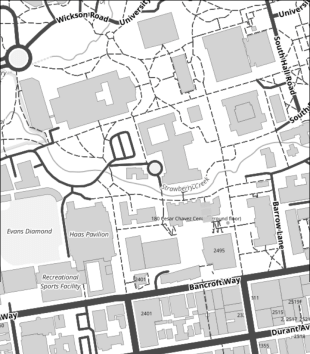
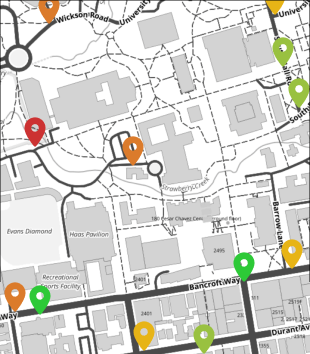
fake data for map and fill color for chart

diff --git a/src/app/home/resources/resources.component.ts b/src/app/home/resources/resources.component.ts
@@ -14,6 +14,7 @@ import {
 import { Observable, fromEvent, Subscriber } from "rxjs";
 import { Util } from '../../services/util/util.service';
 import { AppSettings } from '../../app-settings';
+import * as moment from 'moment';
 
 let FakePOIS = [
   {
@@ -167,6 +168,13 @@ export class ResourcesComponent implements OnInit, OnDestroy {
     })
   }
 
+  private fakeResourceScore() {
+    this.pois.forEach(poi => {
+      poi.resource_score = Math.floor(Math.random() * 5.0);
+      poi.rating_last_updated = 1595402179094;
+    })
+  }
+
   public onInputFocus() {
     ParentContainerState.fullscreen.next(true);
     this.isViewListShow = true;
@@ -197,15 +205,15 @@ export class ResourcesComponent implements OnInit, OnDestroy {
     let params: string[] = [];
 
     // get all at first from ucberkeley is center of map
-    // if (!this.keyword && !this.poiType) {
+    if (!this.keyword && !this.poiType) {
       params.push(`lat=${this.mapCenter.lat}&lng=${this.mapCenter.lng}&radius=1000`);
-    // }
+    }
 
     if (this.keyword) {
-      params.push(`text=${this.keyword}`);
+      params.push(`lat=${this.mapCenter.lat}&lng=${this.mapCenter.lng}&radius=3000&text=${this.keyword}`);
     }
     if (this.poiType) {
-      params.push(`place_type=${this.poiType}`);
+      params.push(`lat=${this.mapCenter.lat}&lng=${this.mapCenter.lng}&radius=3000&place_type=${this.poiType}`);
     }
     if (params.length) {
       url += `?profile=berkeley&${params.join("&")}`;
@@ -217,6 +225,7 @@ export class ResourcesComponent implements OnInit, OnDestroy {
       (data) => {
         this.isSearching = false;
         this.pois = data;
+        this.fakeResourceScore();
         this.formatPOI();
         this.updatePlaceColors();
       },
@@ -258,6 +267,7 @@ export class ResourcesComponent implements OnInit, OnDestroy {
     if (this.keyword || this.poiType) {
       this.keyword = "";
       this.poiType = "";
+      this.isViewListShow = false;
       this.isSearching = false;
       this.search();
       ParentContainerState.fullscreen.next(false);

diff --git a/src/app/home/resources/resources.component.html b/src/app/home/resources/resources.component.html
@@ -34,7 +34,7 @@
 
   <div [ngClass]="{'list-not-standalone': !isStandalone()}" class="result-place-list">
     <div class="line-icon"><span (click)="isViewListShow = !isViewListShow"></span></div>
-    <div [hidden]="!isSearching && (focusState || !isViewListShow)" class="p-t-10" *ngIf="pois && pois.length">
+    <div [hidden]="(focusState || !isViewListShow || (isViewListShow && isSearching))" class="p-t-10" *ngIf="pois && pois.length">
       <div *ngFor="let poi of pois">
         <mat-card (click)="focusToPlace(poi)" class="hovering clickable no-bottom col content-left" [ngClass]="{'grey-text-color': !poi.resource_score}">
           <div class="col-30">

diff --git a/src/app/home/community/community.component.ts b/src/app/home/community/community.component.ts
@@ -48,6 +48,14 @@ export class CommunityComponent implements OnInit {
       .subscribe(
         (data: {report_items: any}) => {
           this.dataBySymptoms = data.report_items;
+
+          // default fill color for first 6 symptoms
+          for (let i = 0; i < AppSettings.CHART_COLORS.length; i++) {
+            if (this.dataBySymptoms[i]) {
+              this.dataBySymptoms[i].chartColor = this.addColor();
+              this.dataBySymptoms[i].chartShown = true;
+            }
+          }
           this.renderChart();
         },
         (err) => {
